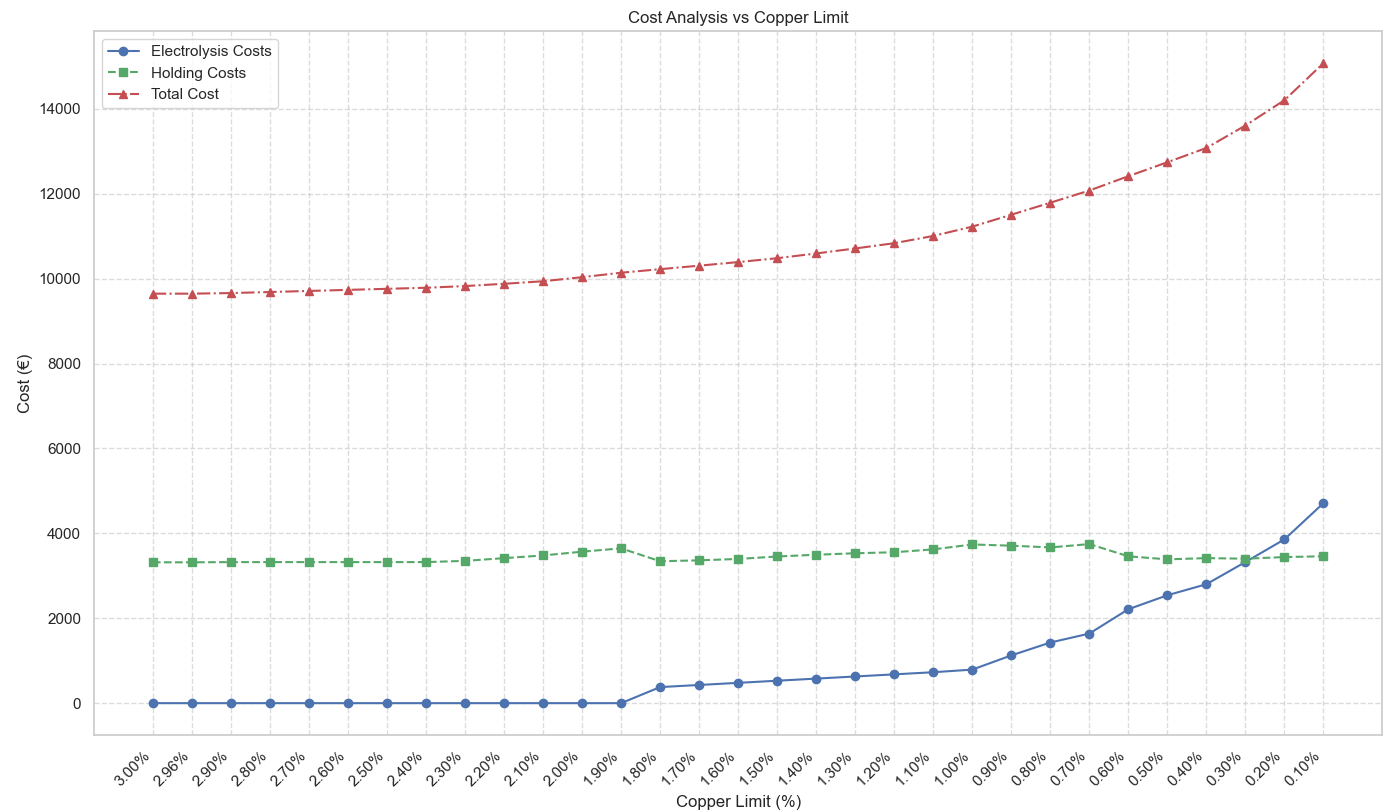
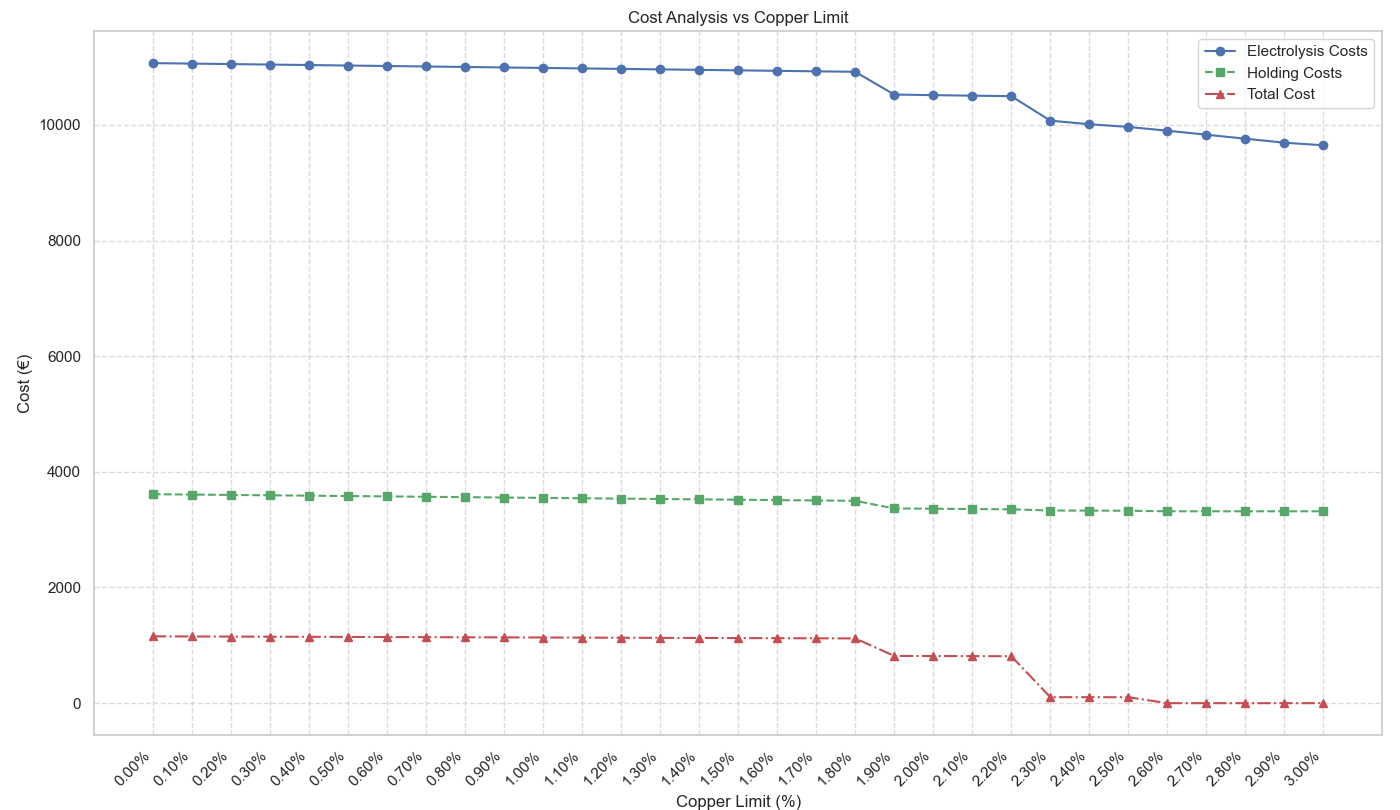
update code

diff --git a/Code and Report/code/ebinary.py b/Code and Report/code/ebinary.py
@@ -36,29 +36,28 @@ def define_model(n_products, n_suppliers, n_months, tolerance=1e-6):
     return model, x, I, z, y, Cu_removed
 
 # Pass data to the model and solve
-# Update the constraint in set_data_and_solve function
 def set_data_and_solve(model, x, I, z, y, Cu_removed, demand, holding_costs, supplier_costs,
                        capacity, supply_limit, Cr, Ni, Cr_required, Ni_required, CopperLimit, Cu):
+    """
+    Set data into the model and add relevant constraints, then solve it.
+    """
     n_products = len(demand)
     n_suppliers = len(supplier_costs)
     n_months = len(demand[0])
 
-    # Set the objective function
+    # Set the objective function: minimize inventory holding costs, procurement costs, and electrolysis costs
     objective = gp.quicksum(holding_costs[p] * I[p, t] for p in range(n_products) for t in range(n_months)) + \
-                gp.quicksum(
-                    supplier_costs[s] * z[p, s, t] for p in range(n_products) for s in range(n_suppliers) for t in
-                    range(n_months)) + \
-                gp.quicksum(
-                    100 * y[t] + 5 * gp.quicksum(Cu_removed[p, t] for p in range(n_products)) for t in range(n_months))
-
+                gp.quicksum(supplier_costs[s] * z[p, s, t] for p in range(n_products) for s in range(n_suppliers) for t in range(n_months)) + \
+                gp.quicksum(100 * y[t] + 5 * gp.quicksum(Cu_removed[p, t] for p in range(n_products)) for t in range(n_months))
     model.setObjective(objective, GRB.MINIMIZE)
 
+    # Demand satisfaction constraints
     for p in range(n_products):
         for t in range(n_months):
             if t == 0:
-                model.addConstr((x[p, t] - Cu_removed[p, t]) == demand[p][t] + I[p, t])
+                model.addConstr(x[p, t] == demand[p][t] + I[p, t])
             else:
-                model.addConstr((x[p, t] - Cu_removed[p, t]) + I[p, t - 1] == demand[p][t] + I[p, t])
+                model.addConstr(x[p, t] + I[p, t - 1] == demand[p][t] + I[p, t])
 
     for t in range(n_months):
         model.addConstr(gp.quicksum(x[p, t] for p in range(n_products)) <= capacity[t])
@@ -69,16 +68,10 @@ def set_data_and_solve(model, x, I, z, y, Cu_removed, demand, holding_costs, sup
 
     for t in range(n_months):
         for p in range(n_products):
-            model.addConstr(
-                gp.quicksum(Cu[s] * z[p, s, t] for s in range(n_suppliers)) - Cu_removed[p, t] <= CopperLimit * (
-                            x[p, t] - Cu_removed[p, t]))
-            model.addConstr(Cu_removed[p, t] <= y[t] * 10000)
-            model.addConstr(Cu_removed[p, t] <= gp.quicksum(Cu[s] * z[p, s, t] for s in range(n_suppliers)))
+            model.addConstr(gp.quicksum(Cr[s] * z[p, s, t] for s in range(n_suppliers)) == Cr_required[p] * x[p, t])
+            model.addConstr(gp.quicksum(Ni[s] * z[p, s, t] for s in range(n_suppliers)) == Ni_required[p] * x[p, t])
             model.addConstr(gp.quicksum(z[p, s, t] for s in range(n_suppliers)) == x[p, t])
-            model.addConstr(gp.quicksum(Cr[s] * z[p, s, t] for s in range(n_suppliers)) == Cr_required[p] * (
-                        x[p, t] - Cu_removed[p, t]))
-            model.addConstr(gp.quicksum(Ni[s] * z[p, s, t] for s in range(n_suppliers)) == Ni_required[p] * (
-                        x[p, t] - Cu_removed[p, t]))
+
     model.optimize()
 
     # Output results
@@ -86,8 +79,6 @@ def set_data_and_solve(model, x, I, z, y, Cu_removed, demand, holding_costs, sup
         return model.objVal, True
     else:
         return None, False
-
-# Ensure CopperLimit is passed as a scalar in find_min_copper_limit function
 
 def find_min_copper_limit(demand, holding_costs, supplier_costs, capacity, supply_limit, Cr, Ni, Cr_required, Ni_required, Cu, original_obj_val):
     """

diff --git a/Final Model and report/Pan_6134130_modelb&e.py b/Final Model and report/Pan_6134130_modelb&e.py
@@ -41,7 +41,7 @@ def get_data_e():
     Cu = np.array([0, 4, 2, 5, 3])
     Cr_required = np.array([18, 18, 18])
     Ni_required = np.array([10, 8, 0])
-    CopperLimit = np.full(n_months, 1.8335)# change copper limit here
+    CopperLimit = np.full(n_months, 2.966)# change copper limit here
 
     return demand, holding_costs, supplier_costs, capacity, supply_limit, Cr, Ni, Cr_required, Ni_required, CopperLimit, Cu
 
@@ -169,7 +169,8 @@ def set_data_and_solve_with_copper(model, x, I, z, y, Cu_removed, demand, holdin
     for t in range(n_months):
         for p in range(n_products):
             model.addConstr(gp.quicksum(Cu[s] * z[p, s, t] for s in range(n_suppliers)) - Cu_removed[p, t] <= CopperLimit[t] * (x[p, t] - Cu_removed[p, t]))
-            model.addConstr(Cu_removed[p, t] <= y[t] * gp.quicksum(Cu[s] * z[p, s, t] for s in range(n_suppliers)))
+            model.addConstr(Cu_removed[p, t] <= y[t] * 10000)
+            model.addConstr(Cu_removed[p, t] <= gp.quicksum(Cu[s] * z[p, s, t] for s in range(n_suppliers)))
             model.addConstr(gp.quicksum(z[p, s, t] for s in range(n_suppliers)) == x[p, t])
             model.addConstr(gp.quicksum(Cr[s] * z[p, s, t] for s in range(n_suppliers)) == Cr_required[p] * (x[p, t] - Cu_removed[p, t]))
             model.addConstr(gp.quicksum(Ni[s] * z[p, s, t] for s in range(n_suppliers)) == Ni_required[p] * (x[p, t] - Cu_removed[p, t]))

diff --git a/Code and Report/code/Pan_6134130_data.py b/Code and Report/code/Pan_6134130_data.py
@@ -136,6 +136,5 @@ def get_data_e():
     Cu = np.array([0, 4, 2, 5, 3])
     Cr_required = np.array([18, 18, 18])
     Ni_required = np.array([10, 8, 0])
-    CopperLimit = np.full(n_months, 0.7)
-
+    CopperLimit = np.full(n_months, 2.96)
     return demand, holding_costs, supplier_costs, capacity, supply_limit, Cr, Ni, Cr_required, Ni_required, CopperLimit, Cu
